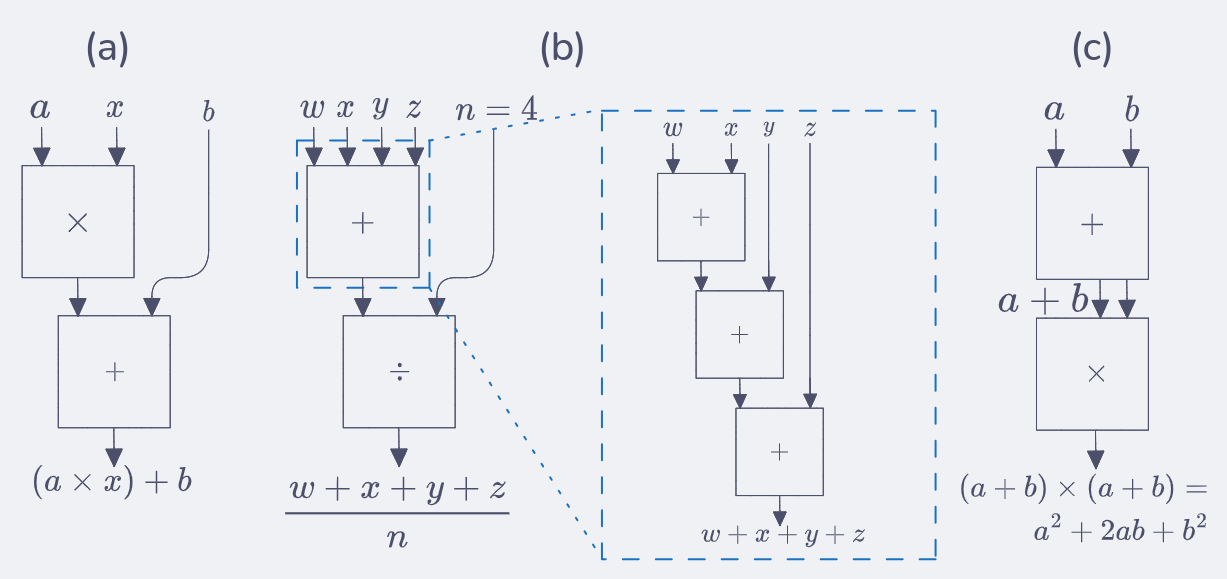
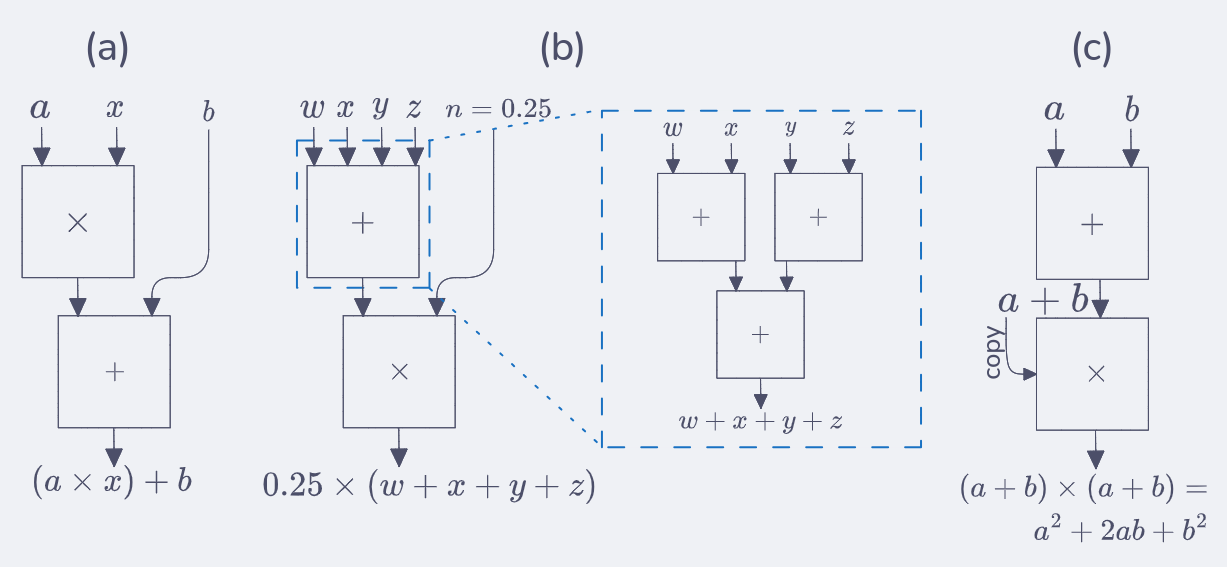
Chapter 01 solutions complete!

diff --git a/content/learning/computing-systems/01-welcome-abroad.md b/content/learning/computing-systems/01-welcome-abroad.md
@@ -65,11 +65,11 @@ Idea 2 states that when using a computer to solve a problem we first describe it
 - **1.11** For each characteristic of an algorithm, give an example of a procedure that does not have the characteristic and is therefore not an algorithm.
 
 *Ans.-* 
-| characteristic | counterexample | 
+| Characteristic | Counterexample | 
 |----------------|----------------|
-| definitness | An cooking recipe that says "add salt to taste" - we cannot know how much salt is appropriate "to taste" |
-| eff. comp. | Find the largest real number or largest prime number. | 
-| finitness | Any infinite loop like `int n = 2; while (n % 2 == 0) { printf("%d is even", n); n += 2 }` |
+| Definitness | A cooking recipe that says "add salt to taste" - we cannot know how much salt is appropriate "to taste" |
+| Effective computability | Find the largest real number or largest prime number. | 
+| Finitness | Any infinite loop like `int n = 2; while (n % 2 == 0) { printf("%d is even", n); n += 2 }` |
 
 ---
 - **1.12** Are items a through e in the following list algorithms? If not, what qualities required of algorithms do they lack?
@@ -101,14 +101,14 @@ Idea 2 states that when using a computer to solve a problem we first describe it
 - a. Could be classified as not an algorithm because the instruction of adding the 1st row + "another" row (whose fst column contains a non-zero entry) is not specific enough ie. lacks definitness. There are many rows w/o a zero as its first element eg. 1st, 3rd, 4th and "another" doesn't specify how to pick among these candidates.
 - b. Not an algorithm, it lacks finitness ie. we'll be able to infinetly find a subsequent prime number paired with a natural number $\mathbb{N}$.
 - c. Yes, it is a well known algorithm as a matter of fact.
-- d. Yes, definetly an algorithm. Although, it won't do anything to prove that the coin is not weighted.
+- d. Yes, Calvin's procedure is an algorithm. However, there is a posibility that it will never end if the coin is weighted to the point that it will produce the same result 100% of the times.
 - e. Steps 1-6: $n\rightarrow \left((4n+4)/2-2\right)/2-1$ simplify to: $n\rightarrow n-1$ so the only ambiguity is if the input number $n$ is a natural, real or complex number? The instructions are an algorithm only if $n\in \mathbb{N}$, otherwise the instructions lead to violating finitness.
 
 ---
 
 - **1.13** Two computers, A and B, are identical except for the fact that A has a subtract instruction and B does not. Both have add instructions. Both have instructions that can take a value and produce the negative of that value. Which computer is able to solve more problems, A or B? Prove your result.
 
-*Ans.-* Both computers A & B are equally capable because they both have sign inversion instructions so they are equivalent.
+*Ans.-* Both computers A & B are equally capable because they both have sign inversion instructions so they are equivalent ie. both can perform `ADD(X0,X1)` whereas A can perform `SUBSTRACT(X0,X1)` and B cannot, but the latter can perform `ADD(X0,(-X1))` which is equivalent to substraction.
 
 ---
 
@@ -119,15 +119,15 @@ Idea 2 states that when using a computer to solve a problem we first describe it
 
 *Ans.-* 
 
-- a. Nine
-- b. *i)* 
-- c. Eighteen
+- a. It reduces to a combinatorics problem where we have 4 sorting algorithms $(A=4)$, five programming languages $(P=5)$, compilers for its respective programming language that can target two ISAs $(C_{\text{x86}}=1, C_{\text{SPARC}}=1)$ and three different microarchitectures for each ISA $(M_{\text{x86}}=3, M_{\text{SPARC}}=3)$. So the total number of possible transformation processes is: $A\times P \times (C_{\text{x86}} \times M_{\text{x86}} + C_{\text{SPARC}} \times M_{\text{SPARC}}) = 120$
+- b. *(i)* Bubble Sort, Fortran program, x86 ISA Pentium IV microarchitecture. *(ii)* Merge Sort, COBOL program, x86 ISA, Pentium IV microarchitecture. *(iii)* Bubble Sort, C ptrogram, SPARC, UltraSPARC microarchitecture.
+- c. In this case we have $M_{\text{x86}}=2, M_{\text{SPARC}}=4$ but we still have $120$ possible processes.
 
 ---
 
 - **1.15** Identify one advantage of programming in a higher-level language compared to a lower-level language. Identify one disadvantage.
 
-*Ans.-* Higher-level pograming languages allow to write feature-rich programs faster with less boilerplate thanks to the rich libraries and packages typically available within their ecosystems. This is one advantage of abstraction that high-level programming lanugages benefit from. One disadvantage of their abstraction is that fine granularity to manipulate low-level systems is hidden or often inaccessible.
+*Ans.-* Higher-level pograming languages allow to write feature-rich programs faster with less instructions thanks to the rich libraries and packages typically available within their ecosystems. This is one advantage of abstraction that high-level programming lanugages benefit from. One disadvantage of their abstraction is that fine granularity to manipulate low-level systems is hidden or often inaccessible.
 
 ---
 
@@ -157,32 +157,45 @@ Idea 2 states that when using a computer to solve a problem we first describe it
 |---|---|
 | Problems $\rightarrow$ Algorithms | Humans make this translation. They understand the problem and formulate the algorithms to solve it, mostly thinking in terms of natural language. |
 | Algorithms $\rightarrow$ Language | Humans also perform this translation by writing the algorithms in code. |
-| Language $\rightarrow$ ISA | Computer manufacturers ship their devices with hardware compatible to a specific ISA. |
-| ISA $\rightarrow$ Microarchitecture | Computer manufacturers |
+| Language $\rightarrow$ ISA | The language compiler performs this translation from programming language to its corresponding ISA assembly. |
+| ISA $\rightarrow$ Microarchitecture | Chip architects design the microarchitecture specification that will implement a particular ISA. |
+| Microarchitecture $\rightarrow$ Cicuits | Circuit designers translate the microarchitecture blocks into actual logic gates and transistor arrangements. |
+| Circuits $\rightarrow$ Device | Physics takes care of this connection. Where we trust in the circuitry and transistors to perform currents and voltage switches in such a way that they are suitable for computing stuff. |
 
 ---
 
 - **1.20** The levels of transformation in Figure 1.9 are often referred to as levels of abstraction. Is that a reasonable characterization? If yes, give an example. If no, why not?
 
-*Ans.-* 
+<img src="../../assets/learning/computing-systems/ch01-ex1_20.png" width="50%">
+
+*Ans.-* Yes it is a reasonable characterization. We can refer to Problem 1.19 where we worked out all these translation steps. An example would be trying to sort a list of guests' surnames for an event in alphabetical order. 
+
+| Transformation | Action |
+|---|---|
+| Problems $\rightarrow$ Algorithms | We already stated the problem in English now we posit a solution thinking in terms of algorithms (eg. Timsort). |
+| Algorithms $\rightarrow$ Language | Write the algorithm in a programming language like C. |
+| Language $\rightarrow$ ISA | Compile our code with the gcc compiler targeting x86 ISA 64bit, for example. |
+| ISA $\rightarrow$ Microarchitecture | The specific microarchitecture design eg. the 13th Gen Intel Core i9-13900H implements the x86 ISA. |
+| Microarchitecture $\rightarrow$ Cicuits | The ALU block in the microarchitecture becomes thousands of physical transistors arranged as logic gates (AND, OR, XOR, etc.). |
+| Circuits $\rightarrow$ Device | Physics in the hardware solves our problem ie. voltages and electrons perform computations. |
 
 ---
 
 - **1.21** Say you go to the store and buy some word processing software. What form is the software actually in? Is it in a high-level programming language? Is it in assembly language? Is it in the ISA of the computer on which you’ll run it? Justify your answer.
 
-*Ans.-* 
+*Ans.-* When you buy software you actually get compiled machine code for the specific ISA of your computer. The actual software is an application that is an executable binary that has already been compiled from high-level languages down to ISA.
 
 ---
 
 - **1.22** Suppose you were given a task at one of the transformation levels shown in Figure 1.9, and required to transform it to the level just below. At which level would it be most diﬃcult to perform the transformation to the next lower level? Why?
 
-*Ans.-* 
+*Ans.-* The most difficult transformation is definetly the first one - *Problems to Algorithms*. Because this is step comprises the real difficutly of how we can solve any problem with a Turing complete machine. So the range of problems that can be presented as computational problems are almost unbounded eg. from solving Artificial General Intelligence to solving High Performance Computing to solving Biology problems to even solving how to create better computers.
 
 ---
 
 - **1.23** Why is an ISA unlikely to change between successive generations of microarchitectures that implement it? For example, why would Intel want to make certain that the ISA implemented by the Pentium III is the same as the one implemented by the Pentium II? Hint: When you upgrade your computer (or buy one with a newer CPU), do you need to throw out all your old software?
 
-*Ans.-* 
+*Ans.-* The ISA is unlikely to change because of backwards compatibility - old software must run on new michroarchitectures. While ISAs do evolve they extend their instructions set making it a superset thus, preventing a disastrous invalidation of the entire older software ecosystem.
 
 ---
 
